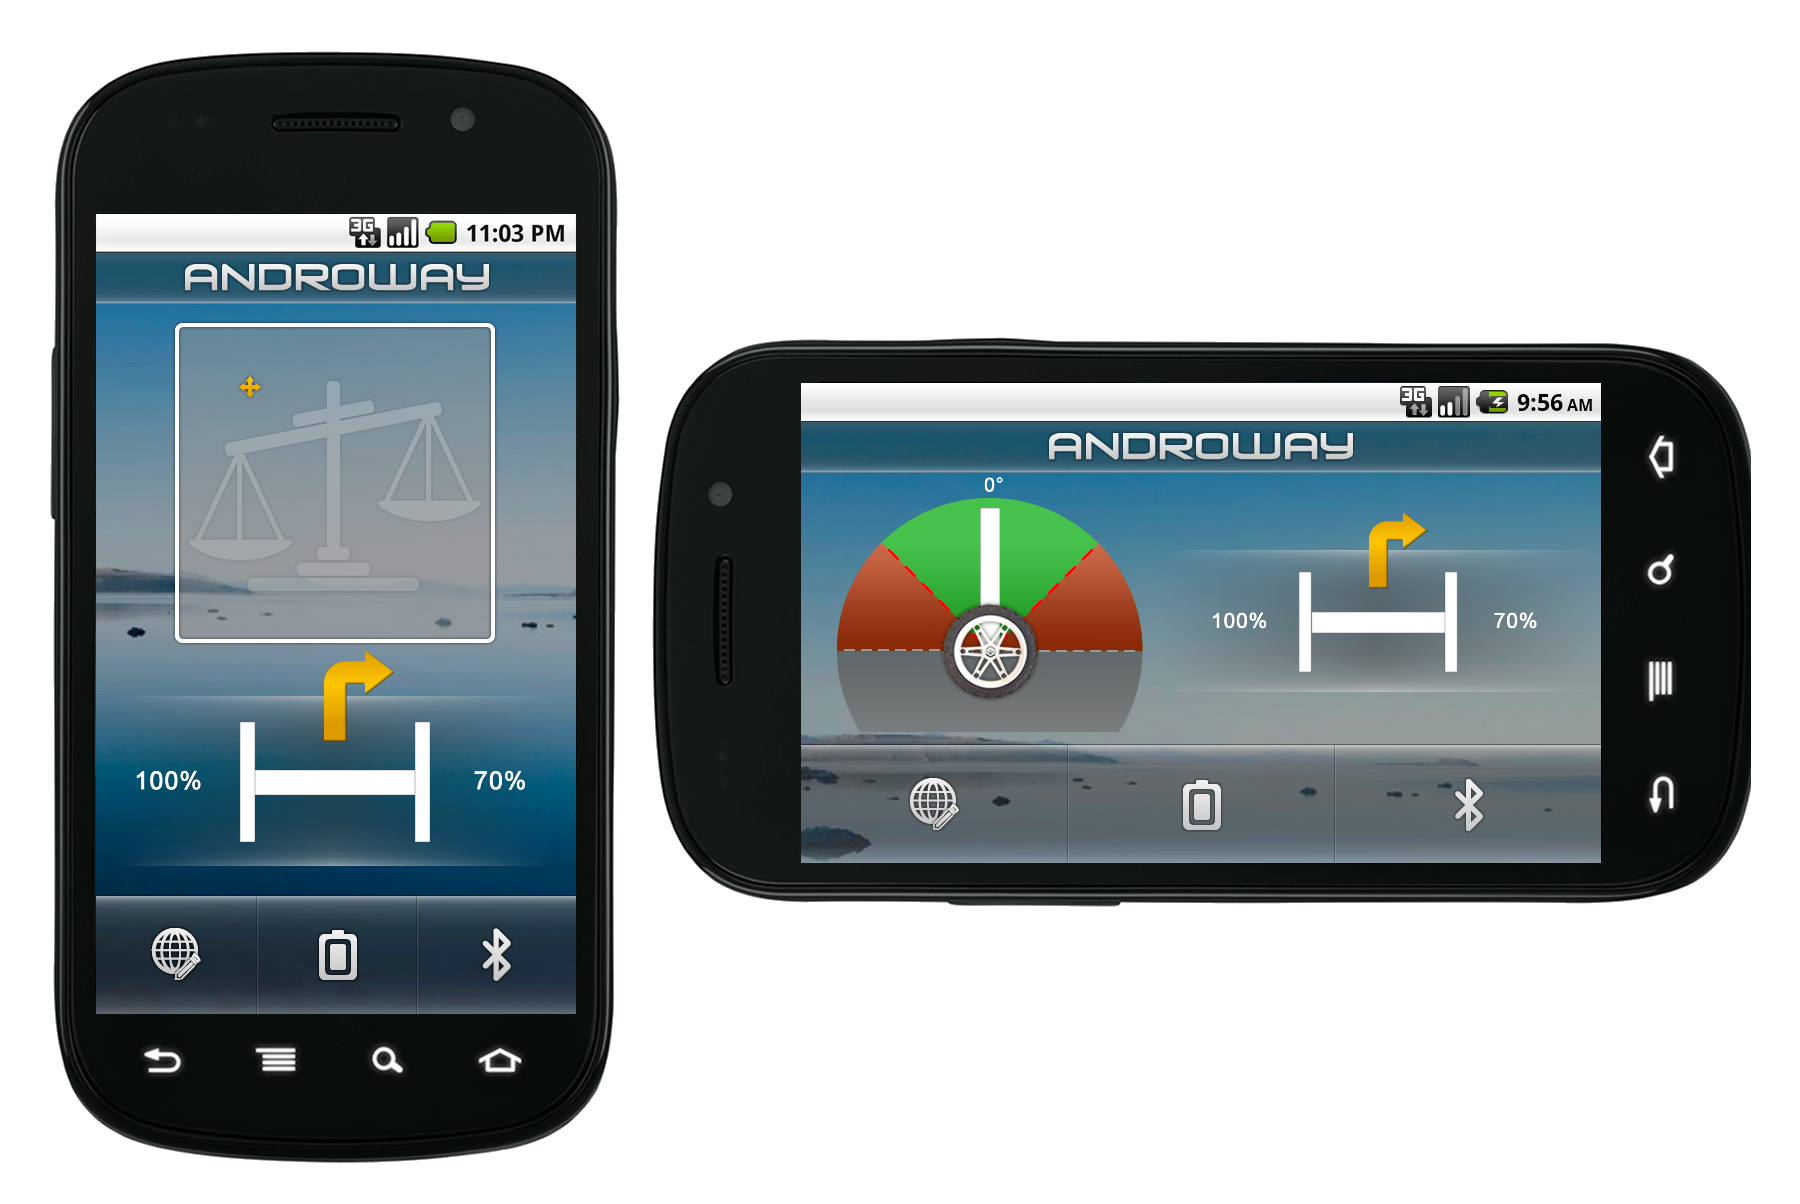
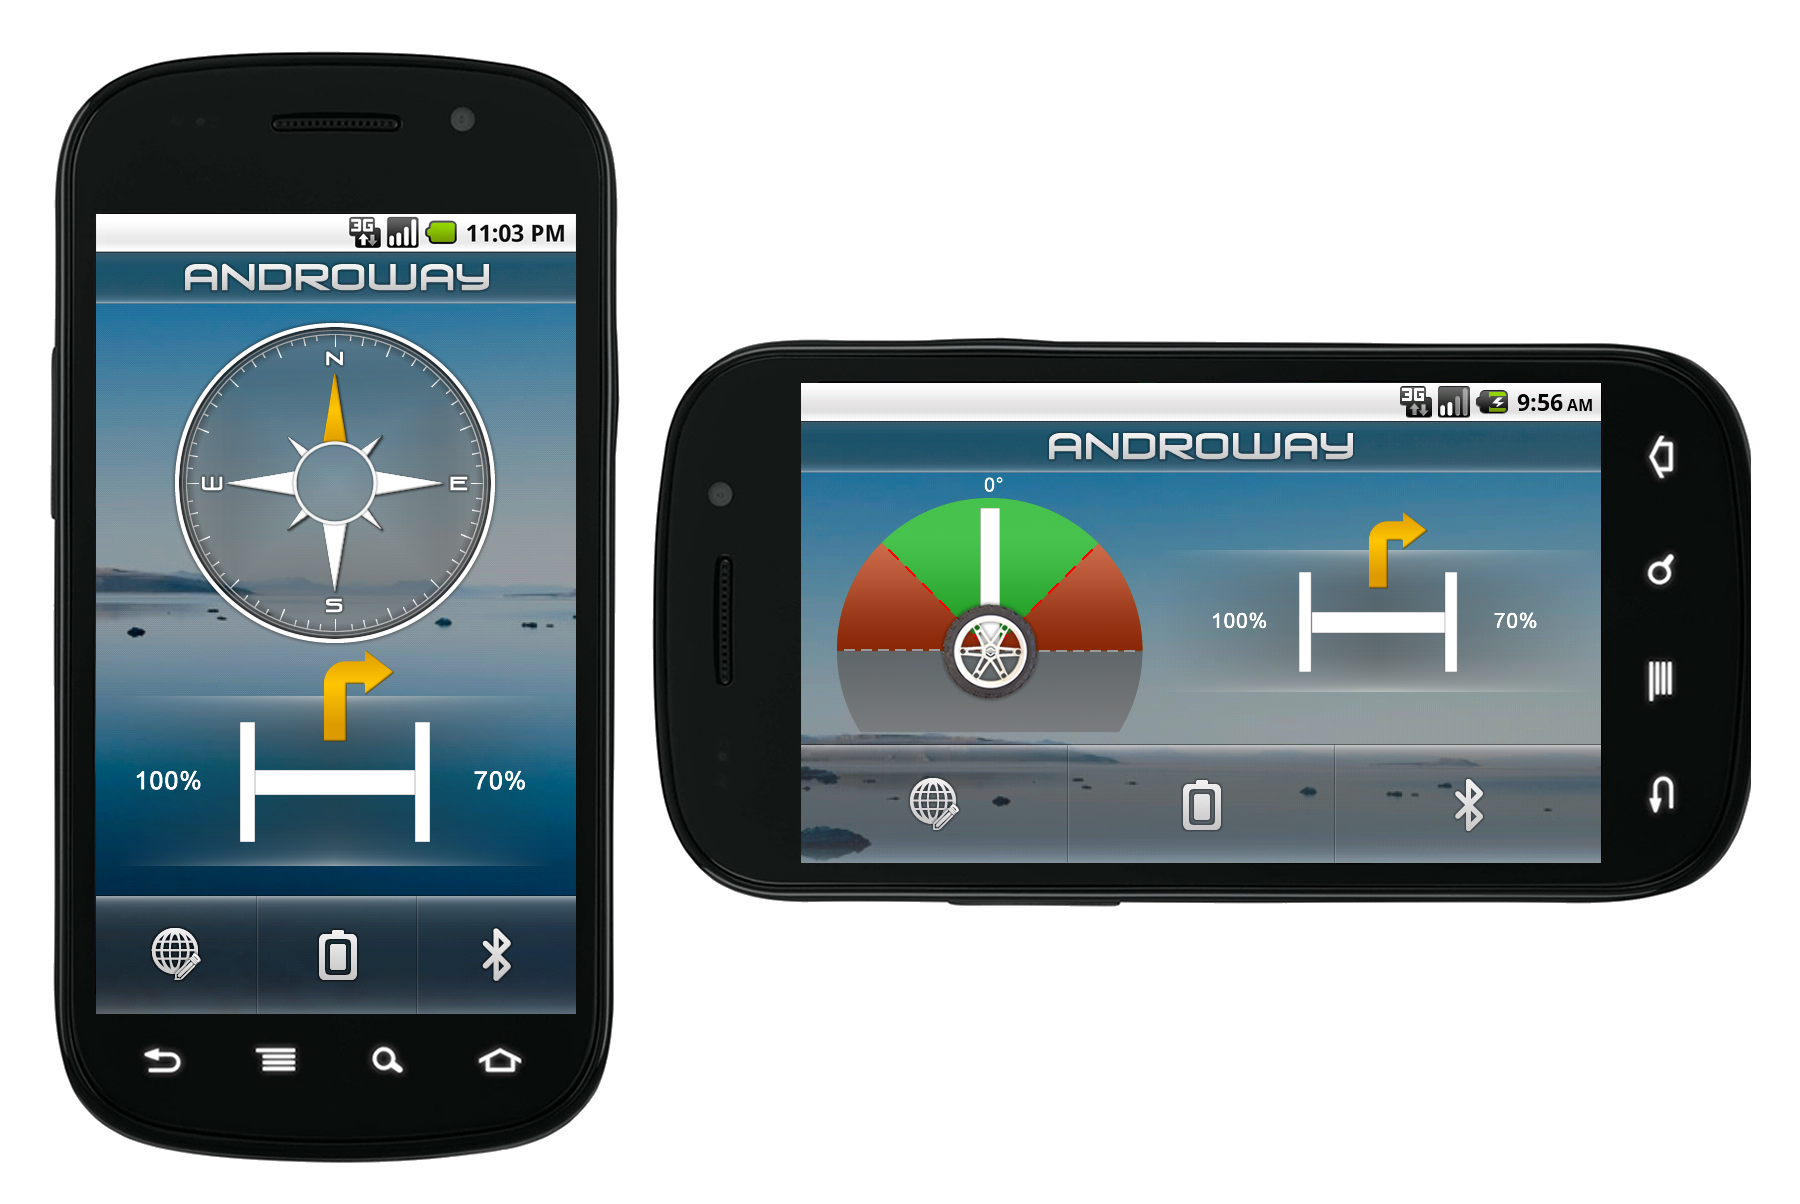
Added the compass element to the first block (only in portrait so far)

Changed region(s): [[0.0933, 0.2458, 0.28, 0.5532]]

diff --git a/code/android/Androway/src/androway/ui/R.java b/code/android/Androway/src/androway/ui/R.java
@@ -50,67 +50,70 @@ public final class R {
         public static final int btn_strip_trans_right_normal=0x7f020011;
         public static final int btn_strip_trans_right_pressed=0x7f020012;
         public static final int btn_strip_trans_right_selected=0x7f020013;
-        public static final int dir_arrow_left=0x7f020014;
-        public static final int dir_arrow_right=0x7f020015;
-        public static final int dir_arrow_straight=0x7f020016;
-        public static final int direction_bg=0x7f020017;
-        public static final int inclination_bg=0x7f020018;
-        public static final int launcher_icon=0x7f020019;
-        public static final int lego_wheel=0x7f02001a;
-        public static final int log_web_icon=0x7f02001b;
-        public static final int quickcontact_arrow_down=0x7f02001c;
-        public static final int quickcontact_arrow_up=0x7f02001d;
-        public static final int quickcontact_bottom_frame=0x7f02001e;
-        public static final int quickcontact_disambig_bottom_bg=0x7f02001f;
-        public static final int quickcontact_disambig_divider=0x7f020020;
-        public static final int quickcontact_drop_shadow=0x7f020021;
-        public static final int quickcontact_photo_frame=0x7f020022;
-        public static final int quickcontact_slider_background=0x7f020023;
-        public static final int quickcontact_slider_btn=0x7f020024;
-        public static final int quickcontact_slider_btn_normal=0x7f020025;
-        public static final int quickcontact_slider_btn_on=0x7f020026;
-        public static final int quickcontact_slider_btn_pressed=0x7f020027;
-        public static final int quickcontact_slider_btn_selected=0x7f020028;
-        public static final int quickcontact_slider_grip_left=0x7f020029;
-        public static final int quickcontact_slider_grip_right=0x7f02002a;
-        public static final int quickcontact_top_frame=0x7f02002b;
-        public static final int segway_body_direction=0x7f02002c;
-        public static final int segway_body_inclination=0x7f02002d;
-        public static final int settings_icon=0x7f02002e;
-        public static final int title_bar_bg=0x7f02002f;
-        public static final int title_text=0x7f020030;
+        public static final int compass=0x7f020014;
+        public static final int dir_arrow_left=0x7f020015;
+        public static final int dir_arrow_right=0x7f020016;
+        public static final int dir_arrow_straight=0x7f020017;
+        public static final int direction_bg=0x7f020018;
+        public static final int inclination_bg=0x7f020019;
+        public static final int launcher_icon=0x7f02001a;
+        public static final int lego_wheel=0x7f02001b;
+        public static final int log_web_icon=0x7f02001c;
+        public static final int quickcontact_arrow_down=0x7f02001d;
+        public static final int quickcontact_arrow_up=0x7f02001e;
+        public static final int quickcontact_bottom_frame=0x7f02001f;
+        public static final int quickcontact_disambig_bottom_bg=0x7f020020;
+        public static final int quickcontact_disambig_divider=0x7f020021;
+        public static final int quickcontact_drop_shadow=0x7f020022;
+        public static final int quickcontact_photo_frame=0x7f020023;
+        public static final int quickcontact_slider_background=0x7f020024;
+        public static final int quickcontact_slider_btn=0x7f020025;
+        public static final int quickcontact_slider_btn_normal=0x7f020026;
+        public static final int quickcontact_slider_btn_on=0x7f020027;
+        public static final int quickcontact_slider_btn_pressed=0x7f020028;
+        public static final int quickcontact_slider_btn_selected=0x7f020029;
+        public static final int quickcontact_slider_grip_left=0x7f02002a;
+        public static final int quickcontact_slider_grip_right=0x7f02002b;
+        public static final int quickcontact_top_frame=0x7f02002c;
+        public static final int segway_body_direction=0x7f02002d;
+        public static final int segway_body_inclination=0x7f02002e;
+        public static final int settings_icon=0x7f02002f;
+        public static final int title_bar_bg=0x7f020030;
+        public static final int title_text=0x7f020031;
     }
     public static final class id {
-        public static final int arrow_down=0x7f07000f;
-        public static final int arrow_up=0x7f07000b;
+        public static final int arrow_down=0x7f070010;
+        public static final int arrow_up=0x7f07000c;
         public static final int balance=0x7f070002;
         public static final int balance_holder=0x7f070003;
-        public static final int battery_button=0x7f070011;
-        public static final int block1=0x7f070006;
-        public static final int block1_flipper=0x7f070007;
-        public static final int block2=0x7f070008;
-        public static final int block2_flipper=0x7f070009;
-        public static final int bluetooth_button=0x7f070012;
-        public static final int footer=0x7f07000e;
-        public static final int header2=0x7f07000a;
+        public static final int battery_button=0x7f070012;
+        public static final int block1=0x7f070007;
+        public static final int block1_flipper=0x7f070008;
+        public static final int block2=0x7f070009;
+        public static final int block2_flipper=0x7f07000a;
+        public static final int bluetooth_button=0x7f070013;
+        public static final int compass=0x7f070004;
+        public static final int footer=0x7f07000f;
+        public static final int header2=0x7f07000b;
         public static final int icon=0x7f070000;
-        public static final int log_web_button=0x7f070010;
-        public static final int scroll=0x7f07000c;
-        public static final int segway_body=0x7f070004;
+        public static final int log_web_button=0x7f070011;
+        public static final int scroll=0x7f07000d;
+        public static final int segway_body=0x7f070005;
         public static final int title=0x7f070001;
-        public static final int tracks=0x7f07000d;
-        public static final int window_tint=0x7f070005;
+        public static final int tracks=0x7f07000e;
+        public static final int window_tint=0x7f070006;
     }
     public static final class layout {
         public static final int action_item=0x7f030000;
         public static final int balance=0x7f030001;
-        public static final int direction=0x7f030002;
-        public static final int inclination=0x7f030003;
-        public static final int main=0x7f030004;
-        public static final int quickaction=0x7f030005;
-        public static final int statusbar=0x7f030006;
-        public static final int temperature=0x7f030007;
-        public static final int titlebar=0x7f030008;
+        public static final int compass=0x7f030002;
+        public static final int direction=0x7f030003;
+        public static final int inclination=0x7f030004;
+        public static final int main=0x7f030005;
+        public static final int quickaction=0x7f030006;
+        public static final int statusbar=0x7f030007;
+        public static final int temperature=0x7f030008;
+        public static final int titlebar=0x7f030009;
     }
     public static final class string {
         /**  Exception messages 

diff --git a/code/android/Androway/src/androway/ui/View.java b/code/android/Androway/src/androway/ui/View.java
@@ -12,6 +12,10 @@ import android.view.GestureDetector;
 import android.view.MotionEvent;
 import android.view.View.OnClickListener;
 import android.view.View.OnTouchListener;
+import android.view.animation.Animation;
+import android.view.animation.Animation.AnimationListener;
+import android.view.animation.AnimationSet;
+import android.view.animation.RotateAnimation;
 import android.widget.ImageButton;
 import android.widget.ImageView;
 import android.widget.LinearLayout;
@@ -46,6 +50,9 @@ public class View extends Activity
     
     public int tempInclinationRotation = 0;
     private TiltControls _tempTiltControls;
+
+    private float _compDegrees = 0;
+    private float _compPreviousDegrees = 0;
 
     /** Called when the activity is first created. */
     @Override
@@ -220,7 +227,7 @@ public class View extends Activity
        _balanceView.setBackgroundColor(Color.parseColor("#00FF99FF"));
        balanceWrapper.addView(_balanceView);
 
-       _tempTiltControls = new TiltControls(View.this, _balanceView);
+       _tempTiltControls = new TiltControls(View.this, this, _balanceView);
     }
 
     @Override
@@ -235,5 +242,82 @@ public class View extends Activity
     {
         _tempTiltControls.unregister();
         super.onStop();
+    }
+
+    public void updateTiltViews(float azimuth, float pitch, float roll)
+    {
+        // Convert the sensor values to the actual speed and direction values
+        float speed = (pitch * 2.222f) + 200;
+        float direction = roll * -2.222f;
+
+        // Limit the maximum speed value
+        if(speed > 100)
+            speed = 100;
+        else if(speed < -100)
+            speed = -100;
+
+        // Limit the maximum direction value
+        if(direction > 100)
+            direction = 100;
+        else if(direction < -100)
+            direction = -100;
+        
+        // Update the balance view
+        _balanceView.updateBalance(speed, direction);
+
+        // Update the compass view
+        this.updateCompass(azimuth);
+    }
+
+    public void updateCompass(float degrees)
+    {
+        // Store the compas degrees value
+        _compDegrees = 360 - degrees;
+
+        setCompassRotation(_compDegrees, _compPreviousDegrees, 200, new RotationListener());
+    }
+
+    private void setCompassRotation(float degrees, float previousDegrees, int duration, RotationListener rotationListener)
+    {
+        ImageView compassImage = (ImageView)findViewById(R.id.compass);
+
+        if(degrees == previousDegrees)
+            degrees += 0.001f;
+
+        RotateAnimation rotateAnim = new RotateAnimation(previousDegrees, degrees, Animation.RELATIVE_TO_SELF, 0.5f, Animation.RELATIVE_TO_SELF, 0.5f);
+        rotateAnim.setDuration(duration);
+        rotateAnim.setAnimationListener(new RotationListener());
+
+        compassImage.setAnimation(rotateAnim);
+
+        // Store the current degrees for future use
+        _compPreviousDegrees = degrees;
+    }
+
+    public class RotationListener implements AnimationListener
+    {
+        public void onAnimationStart(Animation a) { }
+
+        public void onAnimationEnd(Animation a)
+        {
+            setCompassRotation(_compDegrees, _compPreviousDegrees, 200, this);
+            /*
+            ImageView compassImage = (ImageView)findViewById(R.id.compass);
+
+            if(_compDegrees == _compPreviousDegrees)
+                _compDegrees += 0.001f;
+
+            RotateAnimation rotateAnim = new RotateAnimation(_compPreviousDegrees, _compDegrees, Animation.RELATIVE_TO_SELF, 0.5f, Animation.RELATIVE_TO_SELF, 0.5f);
+            rotateAnim.setDuration(180);
+            rotateAnim.setAnimationListener(new RotationListener());
+
+            compassImage.setAnimation(rotateAnim);
+
+            // Store the current degrees for future use
+            _compPreviousDegrees = _compDegrees;
+            */
+        }
+
+        public void onAnimationRepeat(Animation a) { }
     }
 }

diff --git a/code/android/Androway/src/androway/main/TiltControls.java b/code/android/Androway/src/androway/main/TiltControls.java
@@ -16,15 +16,15 @@ import androway.ui.BalanceViewHandler;
  */
 public class TiltControls implements SensorEventListener
 {
-    private Context _context = null;
     private BalanceViewHandler _balanceView = null;
     private SensorManager _sensorManager = null;
+    private androway.ui.View _view = null;
 
-    public TiltControls(Context context, BalanceViewHandler balanceView)
+    public TiltControls(Context context, androway.ui.View view, BalanceViewHandler balanceView)
     {
-        _context = context;
+        _view = view;
         _balanceView = balanceView;
-        _sensorManager = (SensorManager) _context.getSystemService(Context.SENSOR_SERVICE);
+        _sensorManager = (SensorManager) context.getSystemService(Context.SENSOR_SERVICE);
     }
 
     public void register()
@@ -47,23 +47,7 @@ public class TiltControls implements SensorEventListener
                 float pitch = sensorEvent.values[1];    // pitch    rotation around the x-axis (-180 to 180)
                 float roll = sensorEvent.values[2];     // roll     rotation around the y-axis (-90 to 90)
 
-                // Convert the sensor values to the actual speed and direction values
-                float speed = (pitch * 2.222f) + 200;
-                float direction = roll * -2.222f;
-
-                // Limit the maximum speed value
-                if(speed > 100)
-                    speed = 100;
-                else if(speed < -100)
-                    speed = -100;
-
-                // Limit the maximum direction value
-                if(direction > 100)
-                    direction = 100;
-                else if(direction < -100)
-                    direction = -100;
-
-                _balanceView.setBalance(speed, direction);
+                _view.updateTiltViews(azimuth, pitch, roll);
             }
         }
     }

diff --git a/code/android/Androway/src/androway/ui/BalanceViewHandler.java b/code/android/Androway/src/androway/ui/BalanceViewHandler.java
@@ -28,7 +28,7 @@ public class BalanceViewHandler extends LinearLayout
         this.addView(_moveArrow);
     }
 
-    public void setBalance(float speed, float direction)
+    public void updateBalance(float speed, float direction)
     {
         _speed = speed;
         _direction = direction;
